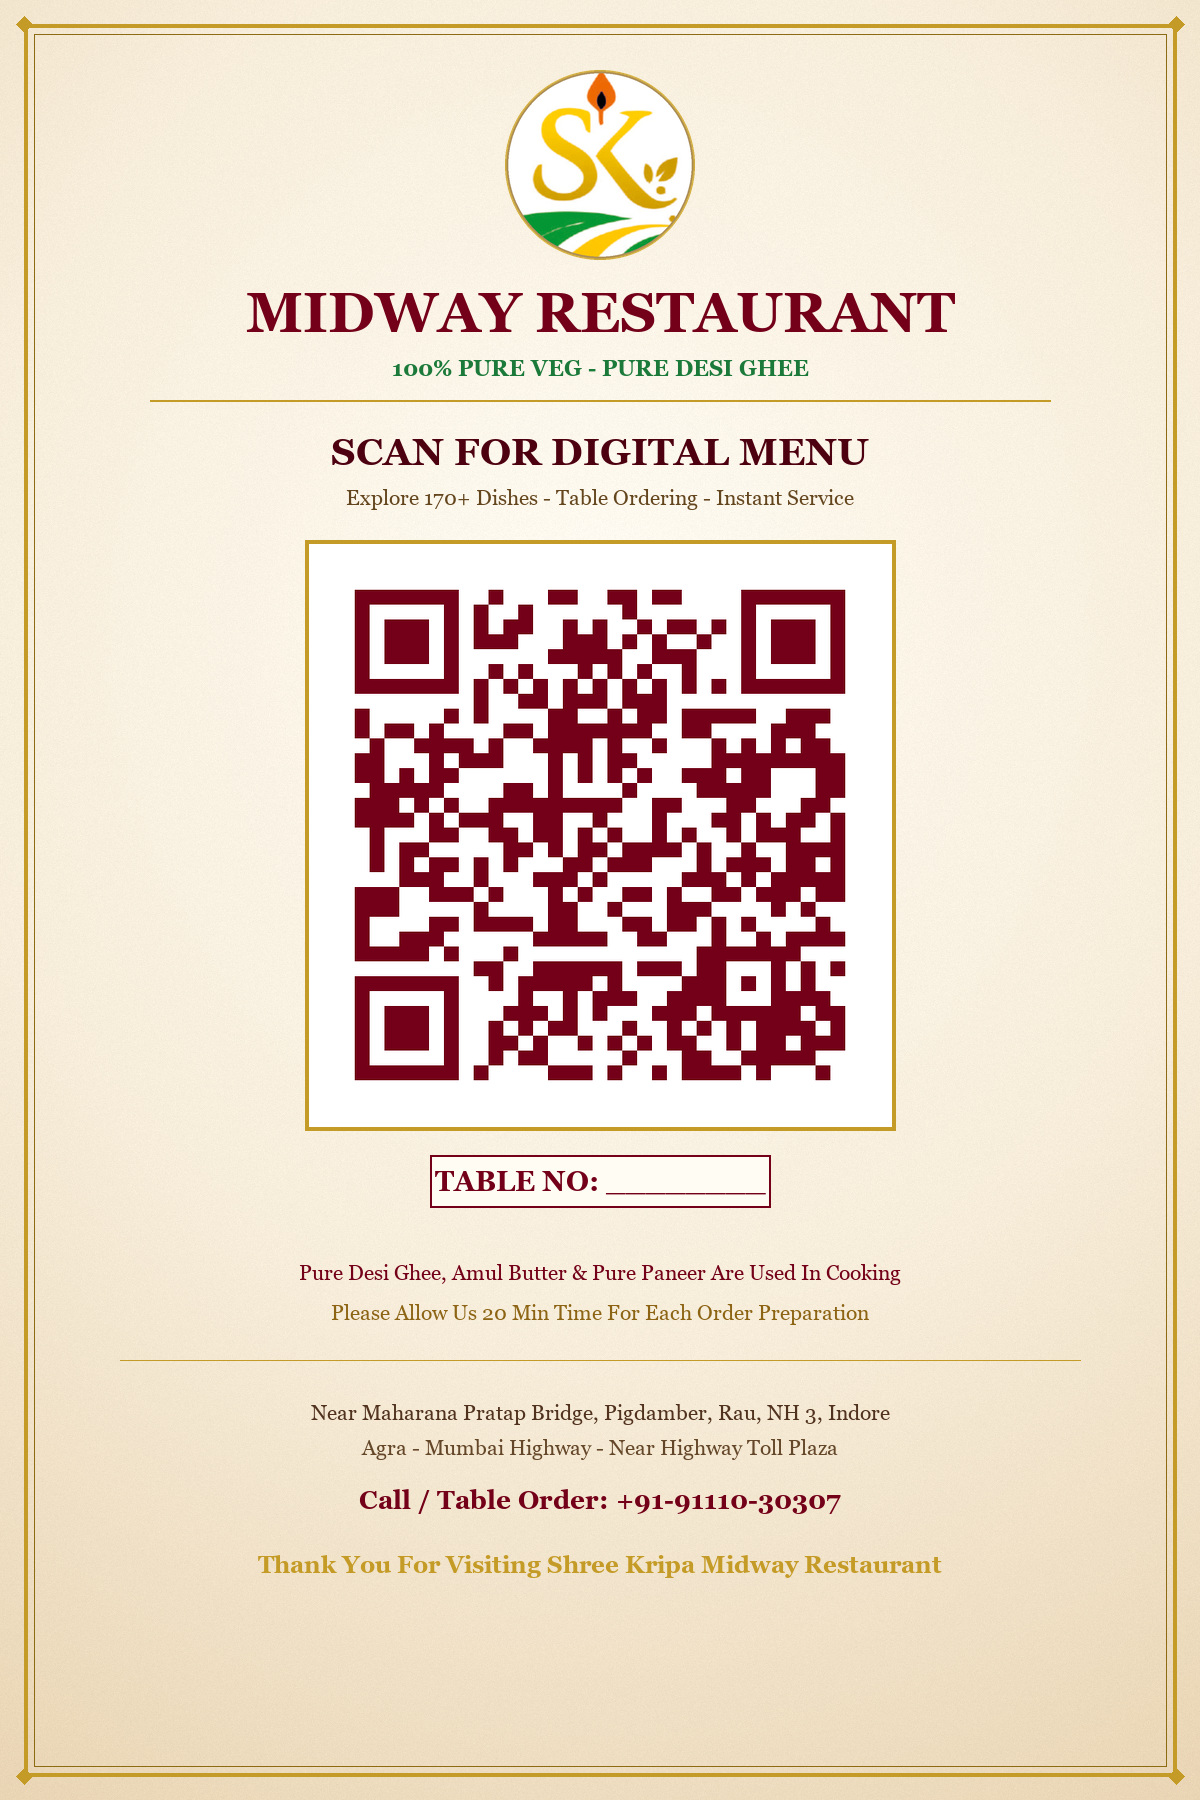
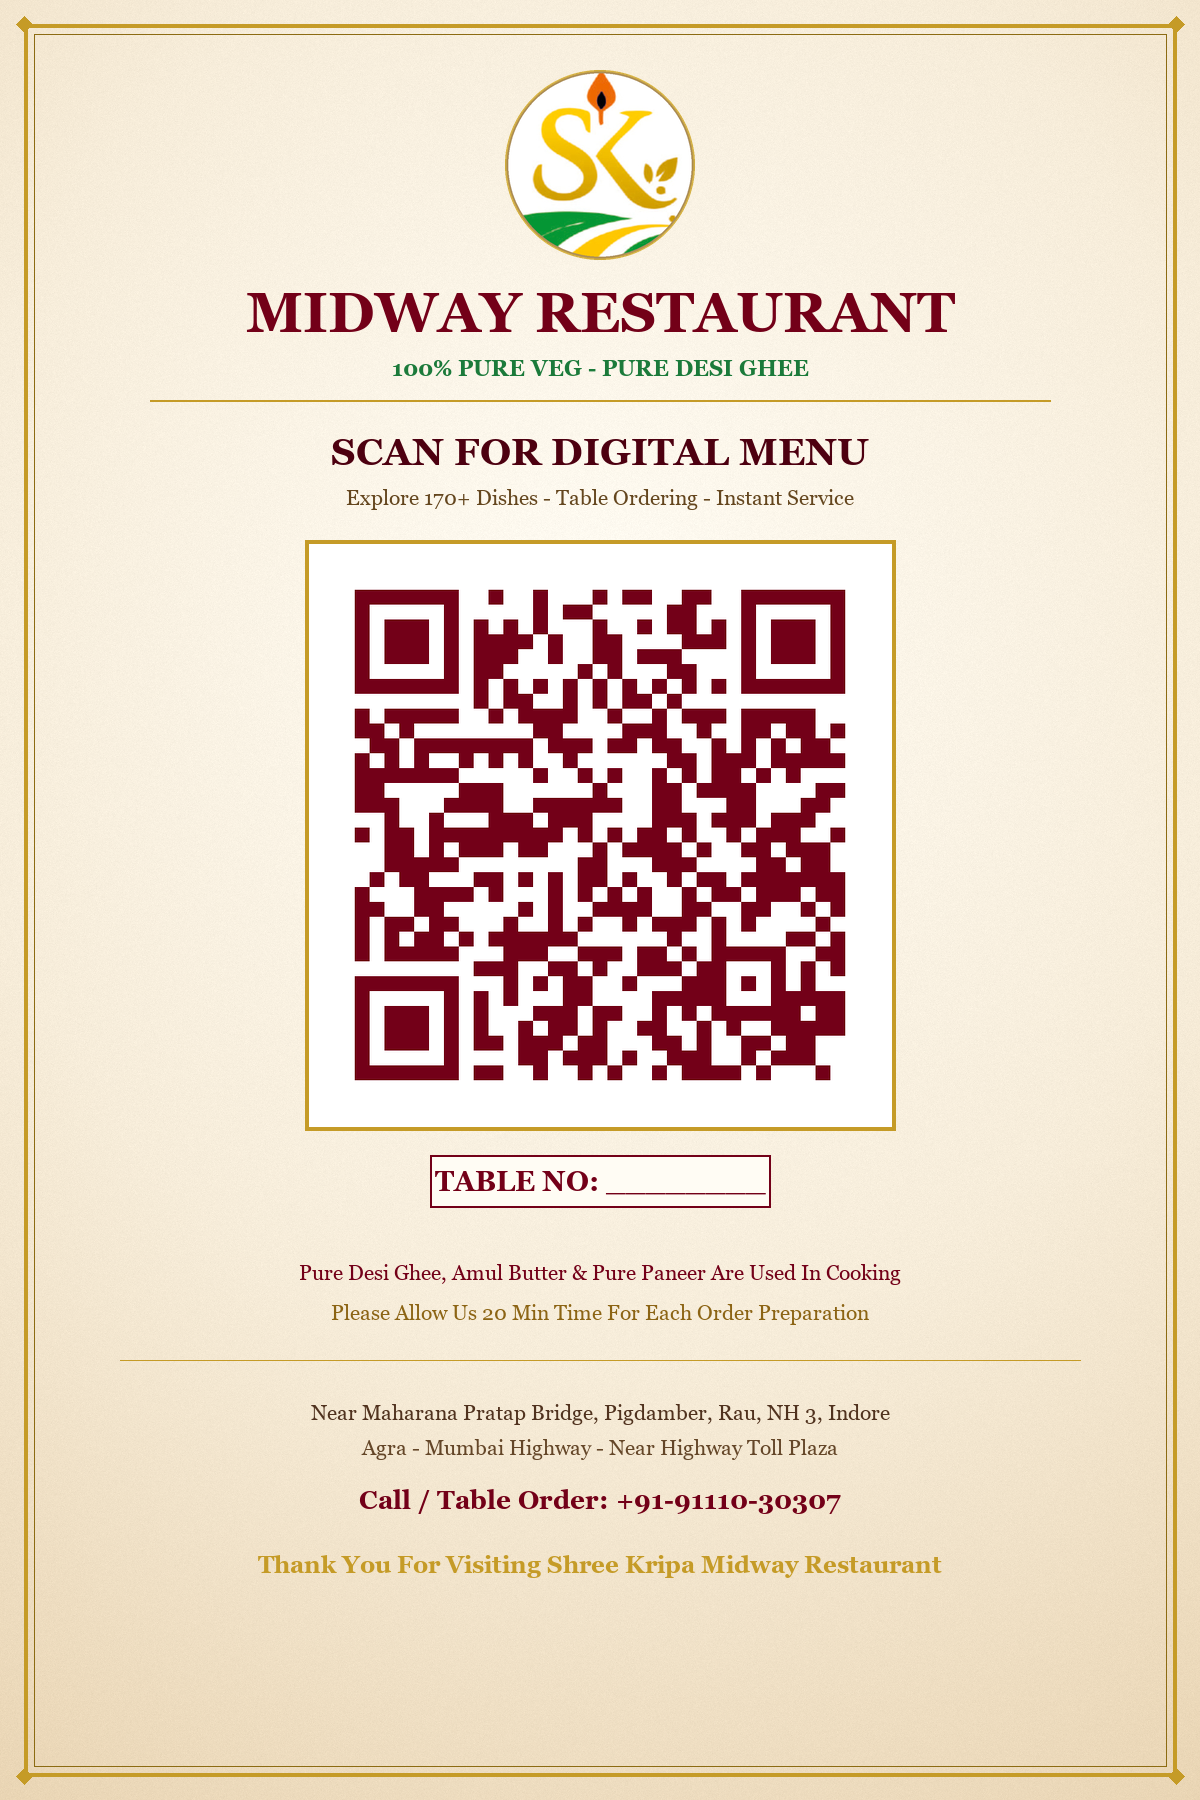
Configure repo url to HospitalityQR/Shree-Kripa-Midway-Restaurant

Changed region(s): [[0.2775, 0.3111, 0.7092, 0.6222]]

diff --git a/config.js b/config.js
@@ -56,7 +56,7 @@ var RESTAURANT_CONFIG = {
     footerCity: "Royal Highway Hospitality • Rau, Indore (Agra - Mumbai Hwy)",
 
     // 8. Hosted Digital Menu URL on HospitalityQR
-    landingPageUrl: "https://hospitalityqr.github.io/shree-kripa-QR/"
+    landingPageUrl: "https://hospitalityqr.github.io/Shree-Kripa-Midway-Restaurant/"
 };
 
 if (typeof module !== 'undefined' && module.exports) {

diff --git a/README.md b/README.md
@@ -26,16 +26,16 @@ Shree Kripa Menu QR/
 ## 💡 "404 Not Found" Solution & QR Setup
 
 ### 404 Kyun Aaya Tha?
-Pehle QR code me GitHub Pages ka dummy link (`https://hospitalityqr.github.io/shree-kripa-QR/`) encode tha, jo GitHub par live upload na hone ke karan phone se scan karne par **404 Not Found** bata raha tha.
+Pehle QR code me repo create na hone ke karan link (`https://hospitalityqr.github.io/Shree-Kripa-Midway-Restaurant/`) phone se scan karne par **404 Not Found** bata raha tha.
 
 ### Ab Yeh Kaise Theek Hua?
 1. **Dynamic QR in `standee.html`**:
    - `standee.html` ko jab aap browser me kholenge, to uske upar ek input box diya gaya hai.
-   - Wahan aap apna **live website link** (jaise aapka GitHub Pages link: `https://hospitalityqr.github.io/shree-kripa-QR/`) ya local Wi-Fi test IP (jaise: `http://192.168.1.5:8080`) daalkar **"Update QR"** par click karein.
+   - Wahan aap apna **live website link** (`https://hospitalityqr.github.io/Shree-Kripa-Midway-Restaurant/`) ya local Wi-Fi test IP (jaise: `http://192.168.1.5:8080`) daalkar **"Update QR"** par click karein.
    - QR code turant naye link ke sath update ho jayega aur **kabhi bhi 404 nahi aayega**!
 2. **Python se Custom QR Standee Generate Karein**:
    ```bash
-   python generate_qr.py "https://hospitalityqr.github.io/shree-kripa-QR/"
+   python generate_qr.py "https://hospitalityqr.github.io/Shree-Kripa-Midway-Restaurant/"
    ```
    Aap jo bhi link denge, script usi ka 300 DPI high-resolution `table_standee_printable.png` bana dega!
 
